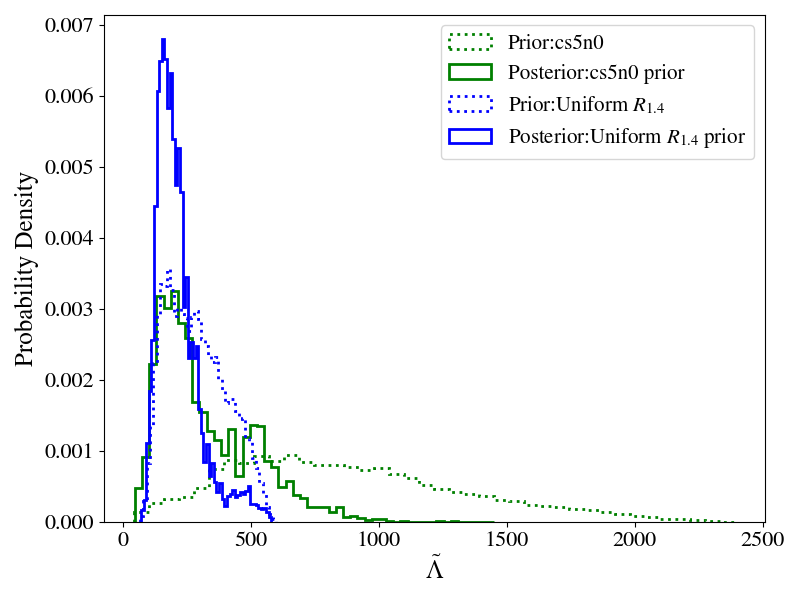
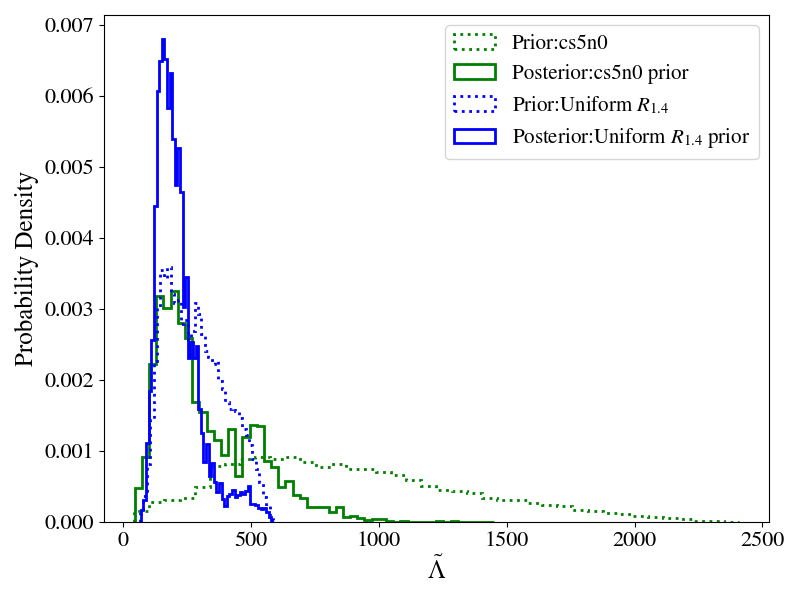
fixed legend

diff --git a/pycbc_runs/scripts/cs5n0prior_post_w_uniform.py b/pycbc_runs/scripts/cs5n0prior_post_w_uniform.py
@@ -186,7 +186,7 @@ ax.hist(samples_post_uniform['lambda_tilde'], bins=num_bins, histtype='step',
 plt.tick_params(axis='both', which='major', labelsize=16)
 plt.xlabel(r"$\tilde \Lambda$", fontsize=18)
 plt.ylabel(r"Probability Density", fontsize=18)
-plt.legend(fontsize=15)
+plt.legend(fontsize=15, loc="upper right")
 plt.tight_layout()
 plt.savefig("../plots/cs5n0_lambda_prior_post.png")
 
@@ -217,6 +217,6 @@ ax.hist(samples_post_uniform['radius_1p4'], bins=num_bins, histtype='step',
 plt.tick_params(axis='both', which='major', labelsize=16)
 plt.xlabel(r"$R_{1.4}$ (km)", fontsize=18)
 plt.ylabel(r"Probability Density", fontsize=18)
-plt.legend(fontsize=15, loc="upper left")
+plt.legend(fontsize=15, loc="upper right")
 plt.tight_layout()
 plt.savefig("../plots/cs5n0_r1p4_prior_post.png")
